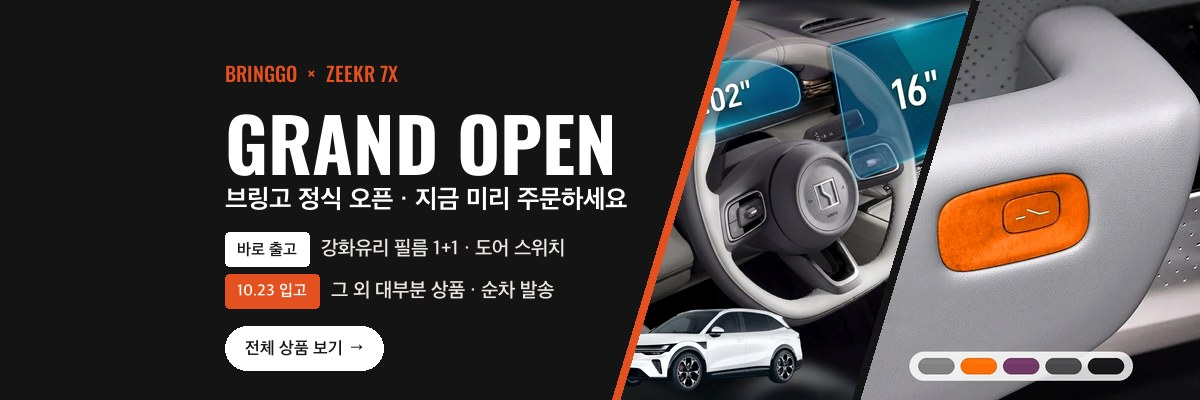
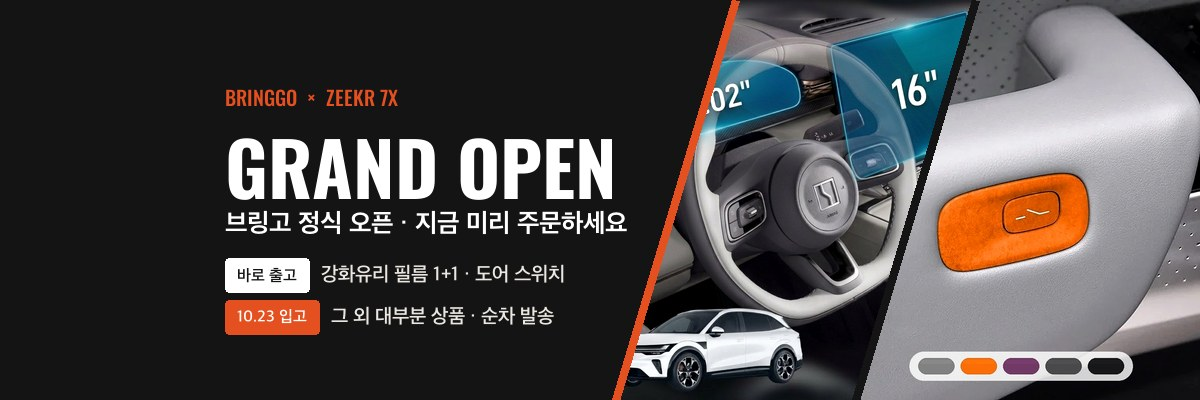
배너 이동 옵션에 '전체 상품 목록'(홈 상품 목록으로 스크롤) 추가, 오픈 배너 버튼 제거

Changed region(s): [[0.185, 0.15, 0.5242, 0.93]]

diff --git a/shop/index.html b/shop/index.html
@@ -13,18 +13,18 @@ if (/github\.io$/.test(location.hostname)) location.replace('https://bringgo.pag
 <meta property="og:title" content="bringgo for ZEEKR 7X">
 <meta property="og:description" content="지커 7X 실내 액세서리 딜러 전용 주문">
 <meta property="og:url" content="https://bringgo.pages.dev/shop/">
-<meta property="og:image" content="https://bringgo.pages.dev/shop/img/brand/og.jpg?v=10192004">
+<meta property="og:image" content="https://bringgo.pages.dev/shop/img/brand/og.jpg?v=10192014">
 <meta property="og:image:width" content="1200">
 <meta property="og:image:height" content="630">
 <meta name="twitter:card" content="summary_large_image">
-<meta name="twitter:image" content="https://bringgo.pages.dev/shop/img/brand/og.jpg?v=10192004">
+<meta name="twitter:image" content="https://bringgo.pages.dev/shop/img/brand/og.jpg?v=10192014">
 <link rel="icon" type="image/png" sizes="32x32" href="img/brand/favicon-32.png">
 <link rel="icon" type="image/png" sizes="64x64" href="img/brand/favicon-64.png">
 <link rel="apple-touch-icon" href="img/brand/apple-touch-icon.png">
 <meta name="theme-color" content="#f3f1ec">
 <link rel="stylesheet" href="https://cdn.jsdelivr.net/npm/pretendard@1.3.9/dist/web/variable/pretendardvariable-dynamic-subset.min.css">
 <link rel="stylesheet" href="https://fonts.googleapis.com/css2?family=Oswald:wght@500;600&display=swap">
-<link rel="stylesheet" href="shop.css?v=10192004">
+<link rel="stylesheet" href="shop.css?v=10192014">
 </head>
 <body>
 <header>
@@ -39,8 +39,8 @@ if (/github\.io$/.test(location.hostname)) location.replace('https://bringgo.pag
 
 <script src="https://cdn.jsdelivr.net/npm/@supabase/supabase-js@2"></script>
 <script src="https://t1.daumcdn.net/mapjsapi/bundle/postcode/prod/postcode.v2.js"></script>
-<script src="config.js?v=10192004"></script>
-<script src="common.js?v=10192004"></script>
-<script src="shop.js?v=10192004"></script>
+<script src="config.js?v=10192014"></script>
+<script src="common.js?v=10192014"></script>
+<script src="shop.js?v=10192014"></script>
 </body>
 </html>

diff --git a/shop/shop.js b/shop/shop.js
@@ -682,7 +682,7 @@ function viewHome() {
   const bs = S.banners || [];
   app().innerHTML = `
   ${bs.length ? `<div class="hero">
-    <div class="hero-track" id="hero">${bs.map(b => `<a class="hero-slide" ${b.link ? `href="${esc(b.link)}"` : ''}><img src="${esc(b.image_url)}" alt="${esc(b.title || '')}"></a>`).join('')}</div>
+    <div class="hero-track" id="hero">${bs.map(b => `<a class="hero-slide" ${b.link === '#/products' ? 'href="#/" data-toall' : b.link ? `href="${esc(b.link)}"` : ''}><img src="${esc(b.image_url)}" alt="${esc(b.title || '')}"></a>`).join('')}</div>
     ${bs.length > 1 ? `<button class="hero-nav prev" data-hn="-1" aria-label="이전 배너">‹</button><button class="hero-nav next" data-hn="1" aria-label="다음 배너">›</button>
     <div class="hero-dots">${bs.map((_, i) => `<i class="${i ? '' : 'on'}"></i>`).join('')}</div>` : ''}
   </div>` : ''}
@@ -691,6 +691,8 @@ function viewHome() {
   <div class="home-cats">${['전체', ...cats].map(c => `<button type="button" class="${c === hc ? 'on' : ''}" data-hcat="${esc(c)}">${esc(c)} ${c === '전체' ? sellable.length : sellable.filter(p => p.category === c).length}</button>`).join('')}</div>
   <div class="grid home-grid">${shown.map(productCard).join('')}</div>`;
   $$('[data-hcat]').forEach(b => b.onclick = () => { S.homeCat = b.dataset.hcat; const y = scrollY; viewHome(); scrollTo(0, y); });
+  // 배너 '전체 상품 목록' → 같은 화면의 상품 목록으로 부드럽게 이동
+  $$('[data-toall]').forEach(a => a.onclick = e => { e.preventDefault(); $('.all-h')?.scrollIntoView({ behavior: 'smooth', block: 'start' }); });
   startHero();
   noticePopup();
 }

diff --git a/shop/admin.js b/shop/admin.js
@@ -770,7 +770,7 @@ async function viewBanners() {
   let list;
   try { list = await api.banners(); }
   catch (e) { app().innerHTML = `<div class="empty">배너를 불러오지 못했습니다.<br><span class="small">${esc(errMsg(e))}<br>SQL 35번을 실행했는지 확인해 주세요.</span></div>`; return; }
-  const prodOpts = sel => `<option value="">누르면 이동 안 함</option>${A.products.map(p => `<option value="#/p/${p.id}" ${sel === '#/p/' + p.id ? 'selected' : ''}>${esc(p.name)}</option>`).join('')}`;
+  const prodOpts = sel => `<option value="">누르면 이동 안 함</option><option value="#/products" ${sel === '#/products' ? 'selected' : ''}>전체 상품 목록 (홈 상품 목록으로 내려감)</option>${A.products.map(p => `<option value="#/p/${p.id}" ${sel === '#/p/' + p.id ? 'selected' : ''}>${esc(p.name)}</option>`).join('')}`;
   app().innerHTML = `
   <div class="page-head"><div><div class="eyebrow">Banner · ${list.length}</div><h1>메인 배너</h1></div>
     <div class="small mut">딜러 첫 화면 맨 위에서 5초마다 넘어가요. 켜진 배너가 없으면 배너 자리가 사라져요.</div></div>

diff --git a/shop/admin.html b/shop/admin.html
@@ -13,8 +13,8 @@ if (/github\.io$/.test(location.hostname)) location.replace('https://bringgo.pag
 <meta name="theme-color" content="#f3f1ec">
 <link rel="stylesheet" href="https://cdn.jsdelivr.net/npm/pretendard@1.3.9/dist/web/variable/pretendardvariable-dynamic-subset.min.css">
 <link rel="stylesheet" href="https://fonts.googleapis.com/css2?family=Oswald:wght@500;600&display=swap">
-<link rel="stylesheet" href="shop.css?v=10192004">
-<link rel="stylesheet" href="admin.css?v=10192004">
+<link rel="stylesheet" href="shop.css?v=10192014">
+<link rel="stylesheet" href="admin.css?v=10192014">
 </head>
 <body>
 <header>
@@ -27,8 +27,8 @@ if (/github\.io$/.test(location.hostname)) location.replace('https://bringgo.pag
 <div id="toast"></div>
 
 <script src="https://cdn.jsdelivr.net/npm/@supabase/supabase-js@2"></script>
-<script src="config.js?v=10192004"></script>
-<script src="common.js?v=10192004"></script>
-<script src="admin.js?v=10192004"></script>
+<script src="config.js?v=10192014"></script>
+<script src="common.js?v=10192014"></script>
+<script src="admin.js?v=10192014"></script>
 </body>
 </html>

diff --git a/shop/shop.css b/shop/shop.css
@@ -796,3 +796,5 @@ ul.inq-guide b{color:var(--ink)}
 
 /* 공지 본문: 한글 단어 중간에서 줄이 끊기지 않게 */
 .np-body,.ntc .bd,.np-item h3{word-break:keep-all;overflow-wrap:anywhere}
+.all-h{scroll-margin-top:90px}
+@media (max-width:860px){.all-h{scroll-margin-top:110px}}
